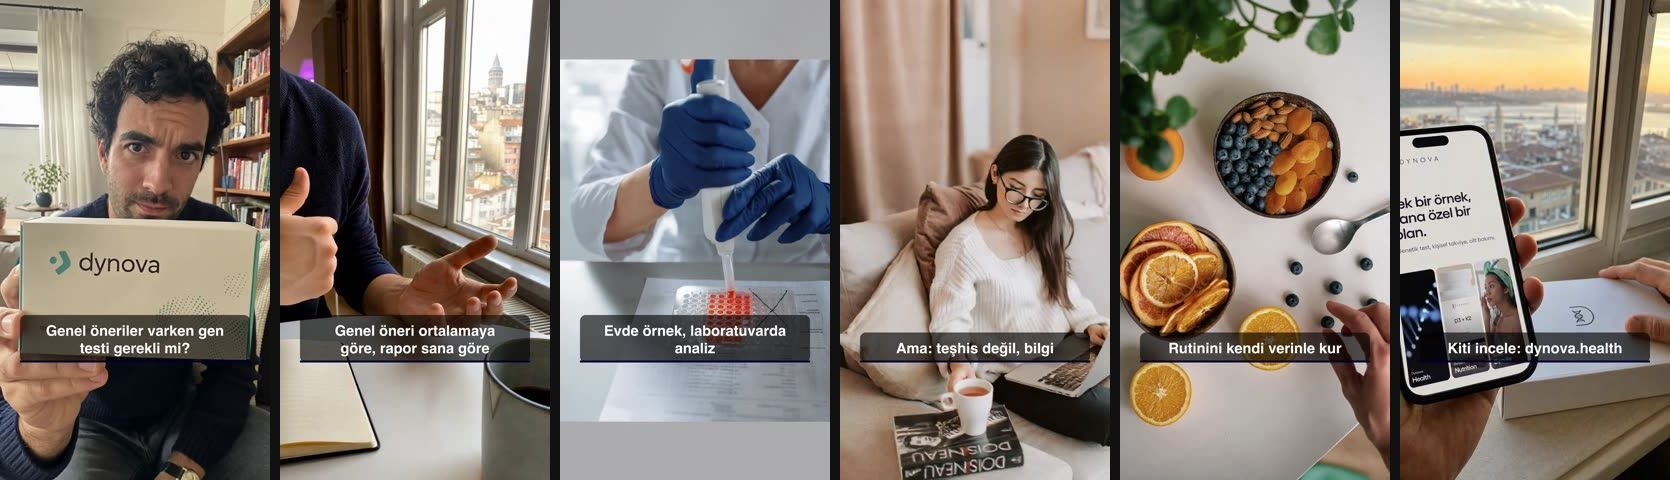
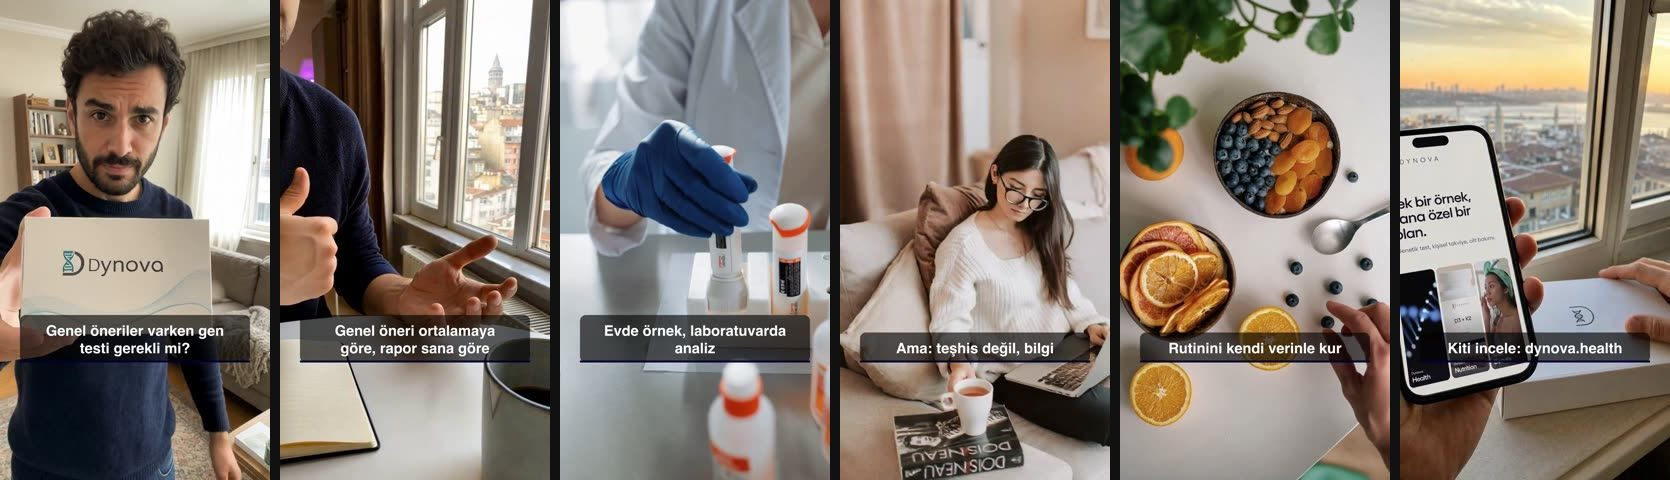
engine: eval checks concept language and caption readability per format

Changed region(s): [[0.0, 0.0, 0.1868, 1.0], [0.3114, 0.0, 0.4982, 1.0]]

diff --git a/scripts/eval-run.ts b/scripts/eval-run.ts
@@ -73,6 +73,17 @@ for (const c of await repo.listConcepts(db, runId)) {
     ),
     `no em dash in concept copy: ${c.title.slice(0, 50)}`,
   );
+  check(
+    brand.languages.includes(c.language),
+    `concept is in a brand language (${c.language}): ${c.title.slice(0, 50)}`,
+  );
+  // video captions must be readable in a 2 to 5 s shot; static and carousel slides carry more text
+  const maxWords = ["static", "carousel", "text_post"].includes(c.format) ? 30 : 12;
+  const wordy = c.shots.filter((s) => (s.onScreenText ?? "").split(/\s+/).filter(Boolean).length > maxWords);
+  check(
+    wordy.length === 0,
+    `on-screen text is readable (${maxWords} words max): ${c.title.slice(0, 50)}${wordy.length ? ` (shots ${wordy.map((s) => s.idx + 1).join(", ")})` : ""}`,
+  );
   if (c.blueprintId) {
     const bp = await repo.getBlueprint(db, c.blueprintId);
     check(
